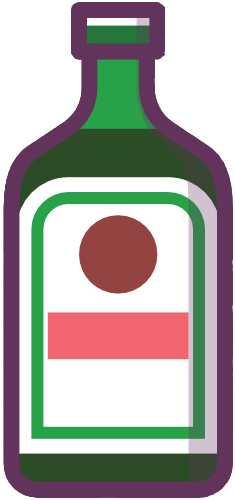
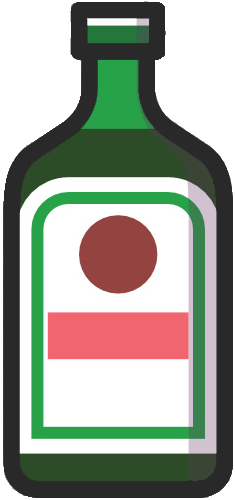
add speedUp for dropimg loots & edit conditions of catching

Changed region(s): [[0.0, 0.0, 1.0, 1.0]]

diff --git a/scripts/gameScript.js b/scripts/gameScript.js
@@ -3,7 +3,7 @@ import moveHero from './moveHero.js'
 import createLoot from './createLoot.js';
 import {moveLoot, changeMoveSpeed} from './moveLoot.js'
 
-const imagesLoots = ['./img/loots/whiskey2.png',
+const imagesLoots = ['./img/loots/whiskey2v3.png',
 './img/loots/tequila.png',
 './img/loots/beer.png',
 './img/loots/yager.png']
@@ -14,7 +14,8 @@ let heightHero;
 let heightGameField;
 let maxHeightLoot;
 let widthGameField;
-let defaultTimer = 10;
+let defaultTimer = 60;
+let defaultSpeed = 5;
 document.getElementById('timer').innerText = 'Timer(sec): ' + defaultTimer;
 const hero = createHero('./img/heroes/shooting-clipart-cow-boy-PNG.png');
 hero.style.visibility = 'hidden';
@@ -58,18 +59,10 @@ function updateSizeLoot(loots, maxHeightLoot) {
     })
 }
 
-function choiceNewLoot(loots) {
-    loots.forEach(element => {
-        if (element !== undefined)
-            {console.log(element);return element;}
-        else element = createLoot(randomImageLoot(), widthGameField);
-    });
-    return 0
-}
-
 function startGame(hero) {
     updateSizeLoot(loots, maxHeightLoot);
     let currentTimer = defaultTimer;
+    let speed = defaultSpeed;
     let score = 0;
     let index = 0;
     heightHero = window.getComputedStyle(hero, null).height.replace('px','');
@@ -79,7 +72,9 @@ function startGame(hero) {
     increment = defaultIncrement;
     let intervalTimer = setInterval(function() {
         currentTimer--;
-        increment+=3;
+        /*speed-=0.05;
+        increment+=2;*/
+        console.log(speed, increment);
         document.getElementById('timer').innerText = 'Timer(sec): ' + currentTimer;
         if (currentTimer === 0) {
             clearInterval(intervalTimer);
@@ -92,40 +87,44 @@ function startGame(hero) {
             document.getElementById('timer').innerText = 'Timer(sec): ' + defaultTimer;
         }
     }, 1000);
-    moveLoot(loots[index], loots[index].height + Number(heightGameField), 5);
+    moveLoot(loots[index], loots[index].height + Number(heightGameField), speed);
     let trying = 0;
     let intervalMovingElements = setInterval(function() {
         let matrix = window.getComputedStyle(loots[index].link, null).transform;
         matrix = matrix.split(/\(|,\s|\)/).slice(1,7);
-        console.log(matrix[5]);
+        //console.log(matrix[5]);
         if (heightGameField - heightHero < matrix[5]) {
             if (heightGameField - heightHero/2 
             > matrix[5]-loots[index].height/2) {
                 if ((heroX - halfWidthHero < matrix[4]) &&
                 (heroX + halfWidthHero > matrix[4])) {
                     score++;
+                    speed-=0.1;
+                    increment+=2;
                     scoreText.innerText = 'Score: ' + score;
                     updateLoot(loots, index, widthGameField)
                     index++;
-                    moveLoot(loots[index], loots[index].height + Number(heightGameField), 5);
+                    moveLoot(loots[index], loots[index].height + Number(heightGameField), speed);
                 }
             }
-            else if (heightGameField < matrix[5]-loots[index].height/2) {
+            else if (heightGameField <= matrix[5]-loots[index].height*0.9) {
                 updateLoot(loots, index, widthGameField)
+                console.log('Перед trying прок')
                 index++;
-                moveLoot(loots[index], loots[index].height + Number(heightGameField), 5);
+                moveLoot(loots[index], loots[index].height + Number(heightGameField), speed);
             }
-            else if (trying > 5) {
+            /*else if (trying > 5) {
                 updateLoot(loots, index, widthGameField);
-                console.log(trying,'++++')
+                console.log9
+                console.log(trying,'+++++++++++')
                 index++;
-                moveLoot(loots[index], loots[index].height + Number(heightGameField), 5);
+                moveLoot(loots[index], loots[index].height + Number(heightGameField), speed);
             }
-            else trying++;
+            else trying++;*/
         }
         
         
-    }, 50);
+    }, 20);
 }
 
 document.addEventListener('keydown', function(event) {

diff --git a/scripts/moveLoot.js b/scripts/moveLoot.js
@@ -1,7 +1,7 @@
 function moveLoot(elem, y, speed) {
-    //elem.link.style.transition = `transform ${speed}s linear`;
     elem.link.style.visibility = 'visible';
-    elem.link.style.transition = `transform 3s linear`;
+    elem.link.style.transition = `transform ${speed}s linear`;
+    //elem.link.style.transition = `transform 3s linear`;
     elem.link.style.transform = `translate(${elem.x}px, ${y}px) rotate(${Math.floor(Math.random() * (1800+1800)) - 1800}deg)`;
 }
 function changeMoveSpeed(elem, seconds) {

diff --git a/styles/hero.css b/styles/hero.css
@@ -4,7 +4,7 @@
     display: flex;
     justify-content: center;
     align-items: center;
-    transition: transform .4s linear;
+    transition: transform .3s linear;
 }
 .hero img{
     max-width: 100%;

diff --git a/styles/element.css b/styles/element.css
@@ -1,5 +1,5 @@
 .element {
-    /*max-*/width: 7%;
+    max-width: 7%;
     /*max-height: 12%;*/
     position: absolute;
     top: 0px;
